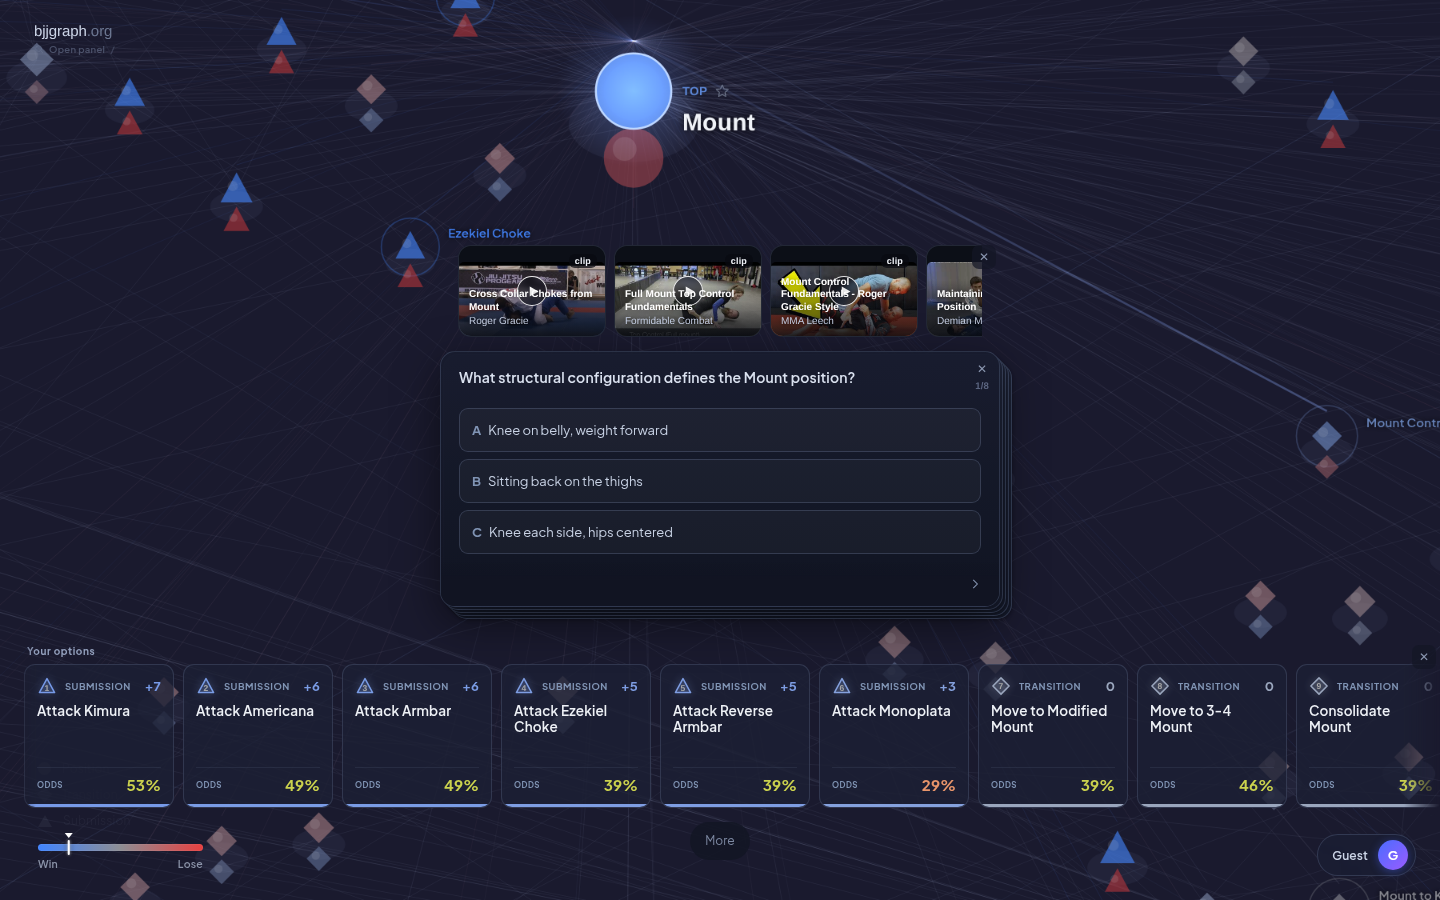
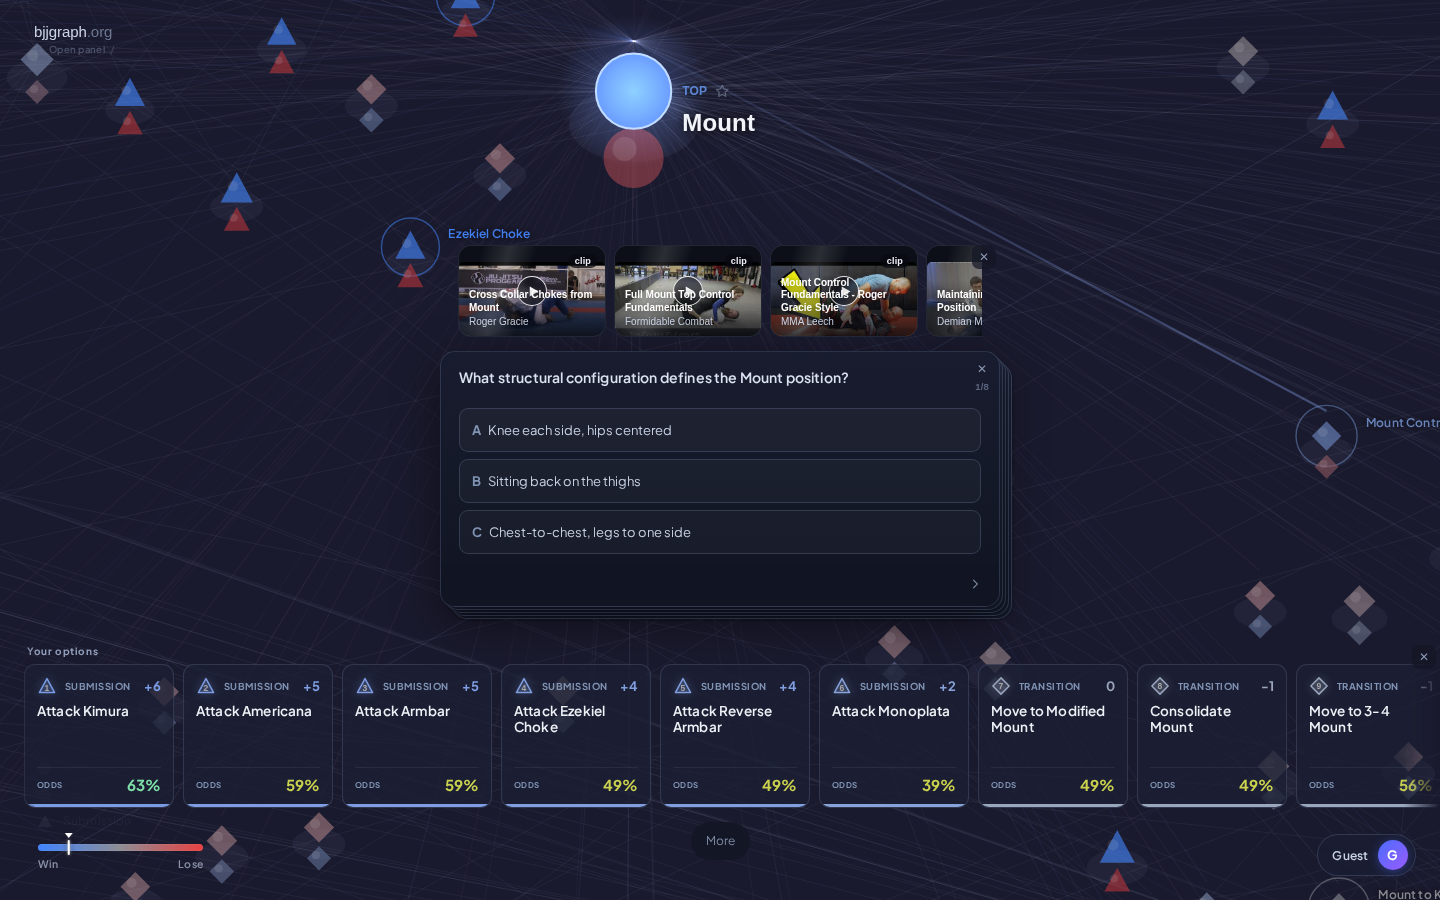
v1.185.1 - The README speaks for the shipped product
The README ships on main, so it now describes the published product rather
than a branch preview, and carries the community-health files an outside
reader looks for before deciding a project is real.

README
- Drop the dev-preview link; bjjgraph.org is the bold primary nav item.
- Recapture the screenshot from production (bjjgraph.org/Positions/Mount/Top,
  1440x900, 2026-09-17). The shot shows the Mount orb pair, the film strip,
  a flashcard question and a full dealt hand with odds. Caption and alt text
  describe what is in the frame; the source comment names the production URL.
- "On dev, submission attacks have their own choices" -> plain present tense.
  neural/submission-states.json, scripts/submission_choices.py and the Finish
  action are all on main.
- COUNTS comment points at content/ and the "Reproduce the numbers" commands
  instead of a branch and a date.
- Add a centred badge row under the tagline: latest release, last commit on
  main, PolyForm Noncommercial licence (accent 2B4CA0, links to LICENSE.md),
  open issues. All four shields.io URLs verified 200.
- Data table: the release is now the first row and names both assets, with no
  account or API key needed. graph.json drops to a later row, loses the exact
  byte count (stale on every content commit) and says ~50 MB, too large for
  GitHub to preview.
- The correction link points at the new issue form rather than CONTRIBUTING.
- No "dev" word matches and no bjjgraph.pages.dev remain.

New files
[…]

diff --git a/README.md b/README.md
@@ -5,17 +5,23 @@
 </p>
 
 <p align="center">
-  <a href="https://dev.bjjgraph.pages.dev"><b>Try the dev preview</b></a> ·
-  <a href="https://bjjgraph.org">Published site</a> ·
+  <a href="https://github.com/diogoseca/bjjgraph/releases/latest"><img src="https://img.shields.io/github/v/release/diogoseca/bjjgraph?style=flat" alt="Latest release"></a>
+  <a href="https://github.com/diogoseca/bjjgraph/commits/main"><img src="https://img.shields.io/github/last-commit/diogoseca/bjjgraph?branch=main&amp;style=flat" alt="Last commit on main"></a>
+  <a href="LICENSE.md"><img src="https://img.shields.io/badge/licence-PolyForm%20Noncommercial-2B4CA0?style=flat" alt="Licence: PolyForm Noncommercial"></a>
+  <a href="https://github.com/diogoseca/bjjgraph/issues"><img src="https://img.shields.io/github/issues/diogoseca/bjjgraph?style=flat" alt="Open issues"></a>
+</p>
+
+<p align="center">
+  <a href="https://bjjgraph.org"><b>bjjgraph.org</b></a> ·
   <a href="#the-data">Get the data</a> ·
   <a href="CONTRIBUTING.md">Contribute</a><br>
   Free to use in your browser. No account required. Source-available, noncommercial licence.
 </p>
 
-<!-- SCREENSHOT SOURCE: https://dev.bjjgraph.pages.dev/Positions/Mount/Top; captured 2026-09-14 at 1440x900. The app normalizes this URL to /Positions/Mount. -->
+<!-- SCREENSHOT SOURCE: production, https://bjjgraph.org/Positions/Mount/Top; captured 2026-09-17 at 1440x900. The app normalizes this URL to /Positions/Mount. -->
 <p align="center">
-  <a href="https://dev.bjjgraph.pages.dev/Positions/Mount/Top"><img src="branding/readme-graph.png" width="800" alt="The dev deployment at Mount, top role, with a flashcard, film-study clips and a hand of submission attacks and transitions"></a><br>
-  <sub>Dev preview: Mount from the top. This README describes the dev branch; the published site can differ.</sub>
+  <a href="https://bjjgraph.org/Positions/Mount/Top"><img src="branding/readme-graph.png" width="800" alt="Mount from the top: the position orb with its bottom-role partner, a strip of film-study clips, a flashcard question, and a hand of submission attacks and transitions with their odds"></a><br>
+  <sub>Mount from the top: film-study clips, a flashcard question, and the hand of attacks and transitions, each with its odds.</sub>
 </p>
 
 | Explore | Drill | Roll |
@@ -36,7 +42,7 @@ A roll never leaves the state machine. It changes **which kind of state** the pl
 
 Positions have **Top / Bottom** perspectives. Transitions and submissions have **Attacker / Defender** perspectives. The role is part of the state, not a label for who is winning. Reference hubs group those perspectives for reading; they are not extra playable states.
 
-The app interprets this model rather than stopping on every intermediate node. On dev, submission attacks have their own choices, including a separate **Finish** action. The [architecture reference](docs/Architecture.md) separates the authored graph from its display and runtime behavior.
+The app interprets this model rather than stopping on every intermediate node. Submission attacks have their own choices, including a separate **Finish** action. The [architecture reference](docs/Architecture.md) separates the authored graph from its display and runtime behavior.
 
 ## Study it, then try a decision
 
@@ -49,7 +55,7 @@ Progress stays in your browser. Sign in only if you want cross-device sync.
 
 ## The data
 
-<!-- COUNTS: derived from this dev-based tree at PR time (2026-09-14). Recompute with the commands in "Reproduce the numbers"; do not copy counts from the published site. -->
+<!-- COUNTS: derived from content/ in this checkout with the commands in "Reproduce the numbers"; recompute there rather than copying counts from the published site. -->
 | Authored JSON files | Count |
 |---|---:|
 | Positions | **133** |
@@ -60,9 +66,9 @@ These are source-file counts, not the number of playable orbs. Submission files 
 
 | Read or download | What you get |
 |---|---|
-| [`graph.json`](graph.json) | The full graph in this checkout: role nodes, attempt weights, outcomes, flashcards and reference material. **49,794,486 bytes** at this revision. |
+| **[Latest release](https://github.com/diogoseca/bjjgraph/releases/latest)** | **Start here.** Two attached assets, `graph.json` and `graph.json.gz`: role nodes, attempt weights, outcomes, flashcards and reference material. A snapshot of the graph behind the published site. No account, no API key, no clone. |
 | [`content/`](content/) | Authored JSON alongside generated Markdown pages. Edit the JSON, not the Markdown. |
-| [Published release data](https://github.com/diogoseca/bjjgraph/releases/latest) | Downloadable `graph.json` and `graph.json.gz`. Releases follow production and may differ from dev. No API key required. |
+| [`graph.json`](graph.json) | The same graph at the current revision, in the repository. Around 50 MB, so GitHub will not preview it in the browser; take the release asset or the raw file. |
 | [`CITATION.cff`](CITATION.cff) | Citation metadata for this project. |
 
 ```sh
@@ -106,7 +112,7 @@ Probabilities are **authored estimates**, checked by schema and graph validators
 
 State boundaries, technical descriptions, safety, ruleset assumptions and probability estimates need review by a **panel of black-belt Brazilian jiu-jitsu practitioners**. This README does not claim that validation has happened. Generated content and passing automated checks are not substitutes for it.
 
-Use this alongside coached practice, not as permission to attempt a submission or as a measure of anyone's belt level. If a claim looks wrong, [open a correction](CONTRIBUTING.md) with the state, role, ruleset and your reasoning.
+Use this alongside coached practice, not as permission to attempt a submission or as a measure of anyone's belt level. If a claim looks wrong, [open a correction](https://github.com/diogoseca/bjjgraph/issues/new?template=correction.yml) with the state, role, ruleset and your reasoning.
 
 ## How it is built
 

diff --git a/CODE_OF_CONDUCT.md b/CODE_OF_CONDUCT.md
@@ -1,0 +1,84 @@
+# Contributor Covenant Code of Conduct
+
+## Our Pledge
+
+We as members, contributors, and leaders pledge to make participation in our community a harassment-free experience for everyone, regardless of age, body size, visible or invisible disability, ethnicity, sex characteristics, gender identity and expression, level of experience, education, socio-economic status, nationality, personal appearance, race, caste, color, religion, or sexual identity and orientation.
+
+We pledge to act and interact in ways that contribute to an open, welcoming, diverse, inclusive, and healthy community.
+
+## Our Standards
+
+Examples of behavior that contributes to a positive environment for our community include:
+
+* Demonstrating empathy and kindness toward other people
+* Being respectful of differing opinions, viewpoints, and experiences
+* Giving and gracefully accepting constructive feedback
+* Accepting responsibility and apologizing to those affected by our mistakes, and learning from the experience
+* Focusing on what is best not just for us as individuals, but for the overall community
+
+Examples of unacceptable behavior include:
+
+* The use of sexualized language or imagery, and sexual attention or advances of any kind
+* Trolling, insulting or derogatory comments, and personal or political attacks
+* Public or private harassment
+* Publishing others' private information, such as a physical or email address, without their explicit permission
+* Other conduct which could reasonably be considered inappropriate in a professional setting
+
+## Enforcement Responsibilities
+
+Community leaders are responsible for clarifying and enforcing our standards of acceptable behavior and will take appropriate and fair corrective action in response to any behavior that they deem inappropriate, threatening, offensive, or harmful.
+
+Community leaders have the right and responsibility to remove, edit, or reject comments, commits, code, wiki edits, issues, and other contributions that are not aligned to this Code of Conduct, and will communicate reasons for moderation decisions when appropriate.
+
+## Scope
+
+This Code of Conduct applies within all community spaces, and also applies when an individual is officially representing the community in public spaces. Examples of representing our community include using an official e-mail address, posting via an official social media account, or acting as an appointed representative at an online or offline event.
+
+## Enforcement
+
+Instances of abusive, harassing, or otherwise unacceptable behavior may be reported to the community leaders responsible for enforcement at [the project issue tracker](https://github.com/diogoseca/bjjgraph/issues), or privately through [Diogo Seca on LinkedIn](https://www.linkedin.com/in/diogoseca/) if the report should not be public. All complaints will be reviewed and investigated promptly and fairly.
+
+All community leaders are obligated to respect the privacy and security of the reporter of any incident.
+
+## Enforcement Guidelines
+
+Community leaders will follow these Community Impact Guidelines in determining the consequences for any action they deem in violation of this Code of Conduct:
+
+### 1. Correction
+
+**Community Impact**: Use of inappropriate language or other behavior deemed unprofessional or unwelcome in the community.
+
+**Consequence**: A private, written warning from community leaders, providing clarity around the nature of the violation and an explanation of why the behavior was inappropriate. A public apology may be requested.
+
+### 2. Warning
+
+**Community Impact**: A violation through a single incident or series of actions.
+
+**Consequence**: A warning with consequences for continued behavior. No interaction with the people involved, including unsolicited interaction with those enforcing the Code of Conduct, for a specified period of time. This includes avoiding interactions in community spaces as well as external channels like social media. Violating these terms may lead to a temporary or permanent ban.
+
+### 3. Temporary Ban
+
+**Community Impact**: A serious violation of community standards, including sustained inappropriate behavior.
+
+**Consequence**: A temporary ban from any sort of interaction or public communication with the community for a specified period of time. No public or private interaction with the people involved, including unsolicited interaction with those enforcing the Code of Conduct, is allowed during this period. Violating these terms may lead to a permanent ban.
+
+### 4. Permanent Ban
+
+**Community Impact**: Demonstrating a pattern of violation of community standards, including sustained inappropriate behavior, harassment of an individual, or aggression toward or disparagement of classes of individuals.
+
+**Consequence**: A permanent ban from any sort of public interaction within the community.
+
+## Attribution
+
+This Code of Conduct is adapted from the [Contributor Covenant][homepage], version 2.1, available at [https://www.contributor-covenant.org/version/2/1/code_of_conduct.html][v2.1].
+
+Community Impact Guidelines were inspired by [Mozilla's code of conduct enforcement ladder][Mozilla CoC].
+
+For answers to common questions about this code of conduct, see the FAQ at [https://www.contributor-covenant.org/faq][FAQ]. Translations are available at [https://www.contributor-covenant.org/translations][translations].
+
+[homepage]: https://www.contributor-covenant.org
+[v2.1]: https://www.contributor-covenant.org/version/2/1/code_of_conduct.html
+[Mozilla CoC]: https://github.com/mozilla/diversity
+[FAQ]: https://www.contributor-covenant.org/faq
+[translations]: https://www.contributor-covenant.org/translations
+

diff --git a/SECURITY.md b/SECURITY.md
@@ -1,0 +1,27 @@
+# Security
+
+## Reporting a vulnerability
+
+Use GitHub's private reporting: **[Report a vulnerability](https://github.com/diogoseca/bjjgraph/security/advisories/new)** on the repository's Security tab. The report stays private until a fix is published.
+
+If that route is unavailable to you, reach [Diogo Seca on LinkedIn](https://www.linkedin.com/in/diogoseca/) and ask for a private channel. Do not put vulnerability details in a public issue, a pull request or a discussion.
+
+This is a single-maintainer project, so there is no response-time commitment. Reports are read and acted on as soon as they can be.
+
+## In scope
+
+- **The published site**, https://bjjgraph.org, and the static pages and canvas app it serves.
+- **The Cloudflare Pages Functions** in [`functions/`](functions/), including the `/l/<code>` share-link preview.
+- **The Supabase surface**: authentication, the account-sync endpoints and the row-level security policies in [`supabase/`](supabase/).
+
+Credentials committed by accident belong here too. Report them privately rather than opening an issue that points at them.
+
+## Not in scope
+
+**The accuracy of the jiu-jitsu content.** A wrong probability, a misfiled outcome or an unsafe technical description is a correction, not a vulnerability — open a [graph correction](https://github.com/diogoseca/bjjgraph/issues/new?template=correction.yml) and it gets handled in the open, where other practitioners can weigh in.
+
+Also out of scope: findings against the local development setup rather than the deployed service, reports produced by a scanner with no demonstrated impact, and the absence of a hardening measure that changes nothing an attacker could reach.
+
+## Supported versions
+
+Only what is currently deployed at https://bjjgraph.org is supported. Published releases are data snapshots; earlier ones are not patched.

diff --git a/CONTRIBUTING.md b/CONTRIBUTING.md
@@ -2,7 +2,7 @@
 
 The best contribution is a correction to the graph.
 
-If a move is missing, a probability looks wrong or an outcome lands in the wrong state, open a [GitHub issue](https://github.com/diogoseca/bjjgraph/issues) or a pull request against the authored JSON. Include the state, role, ruleset and a source or technical argument. You do not need to run the project to report a correction.
+If a move is missing, a probability looks wrong or an outcome lands in the wrong state, open a [graph correction](https://github.com/diogoseca/bjjgraph/issues/new?template=correction.yml) or a pull request against the authored JSON. Include the state, role, ruleset and a source or technical argument. You do not need to run the project to report a correction.
 
 ## Propose a correction
 
@@ -91,6 +91,13 @@ such as `tmp/` for temporary work, `branding/` for shipped images, and `tests/ar
 referenced test evidence and baselines.
 
 Before touching the app, read [CLAUDE.md](CLAUDE.md) section 6. Use the checks for the area you changed; do not run paid content regeneration for an app-only fix.
+
+## Conduct and security
+
+Participation in this project is covered by the [Code of Conduct](CODE_OF_CONDUCT.md).
+
+Never report a security problem in a public issue or pull request. [SECURITY.md](SECURITY.md) has
+the private route, what is in scope and what belongs in a correction instead.
 
 ## Licence
 
